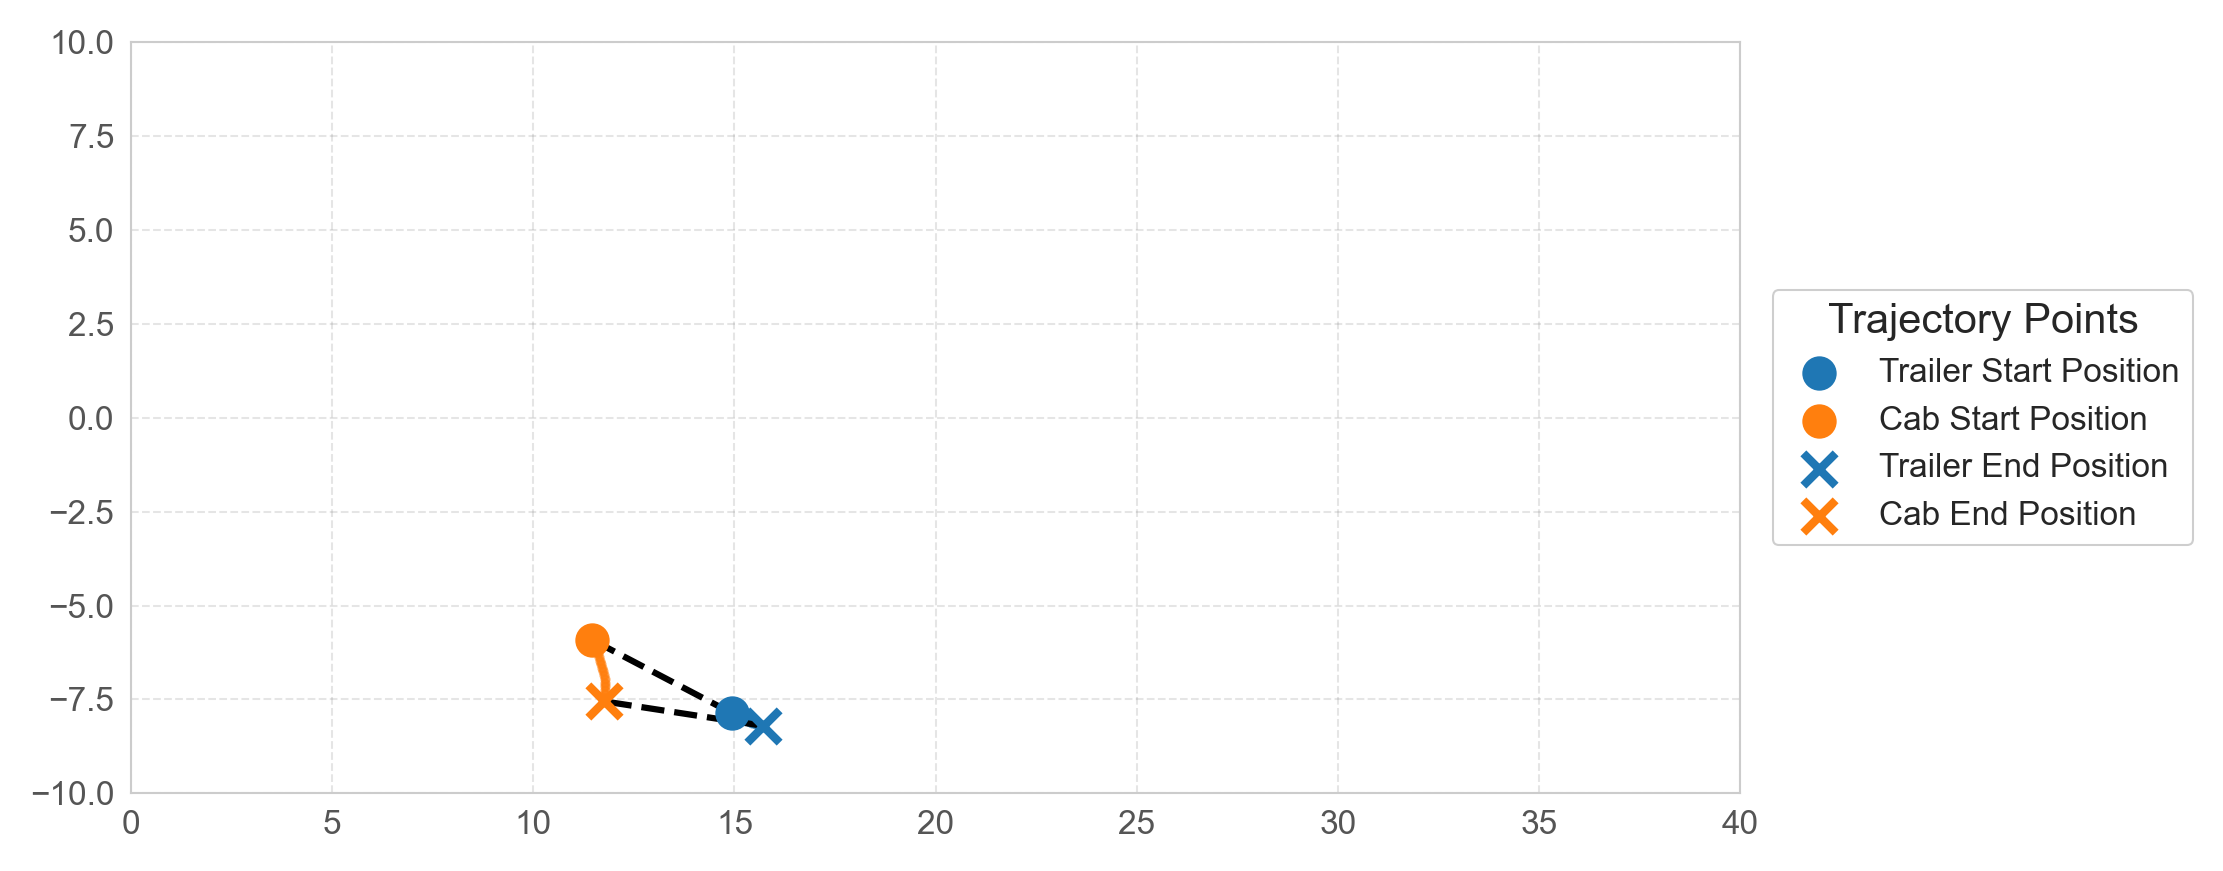
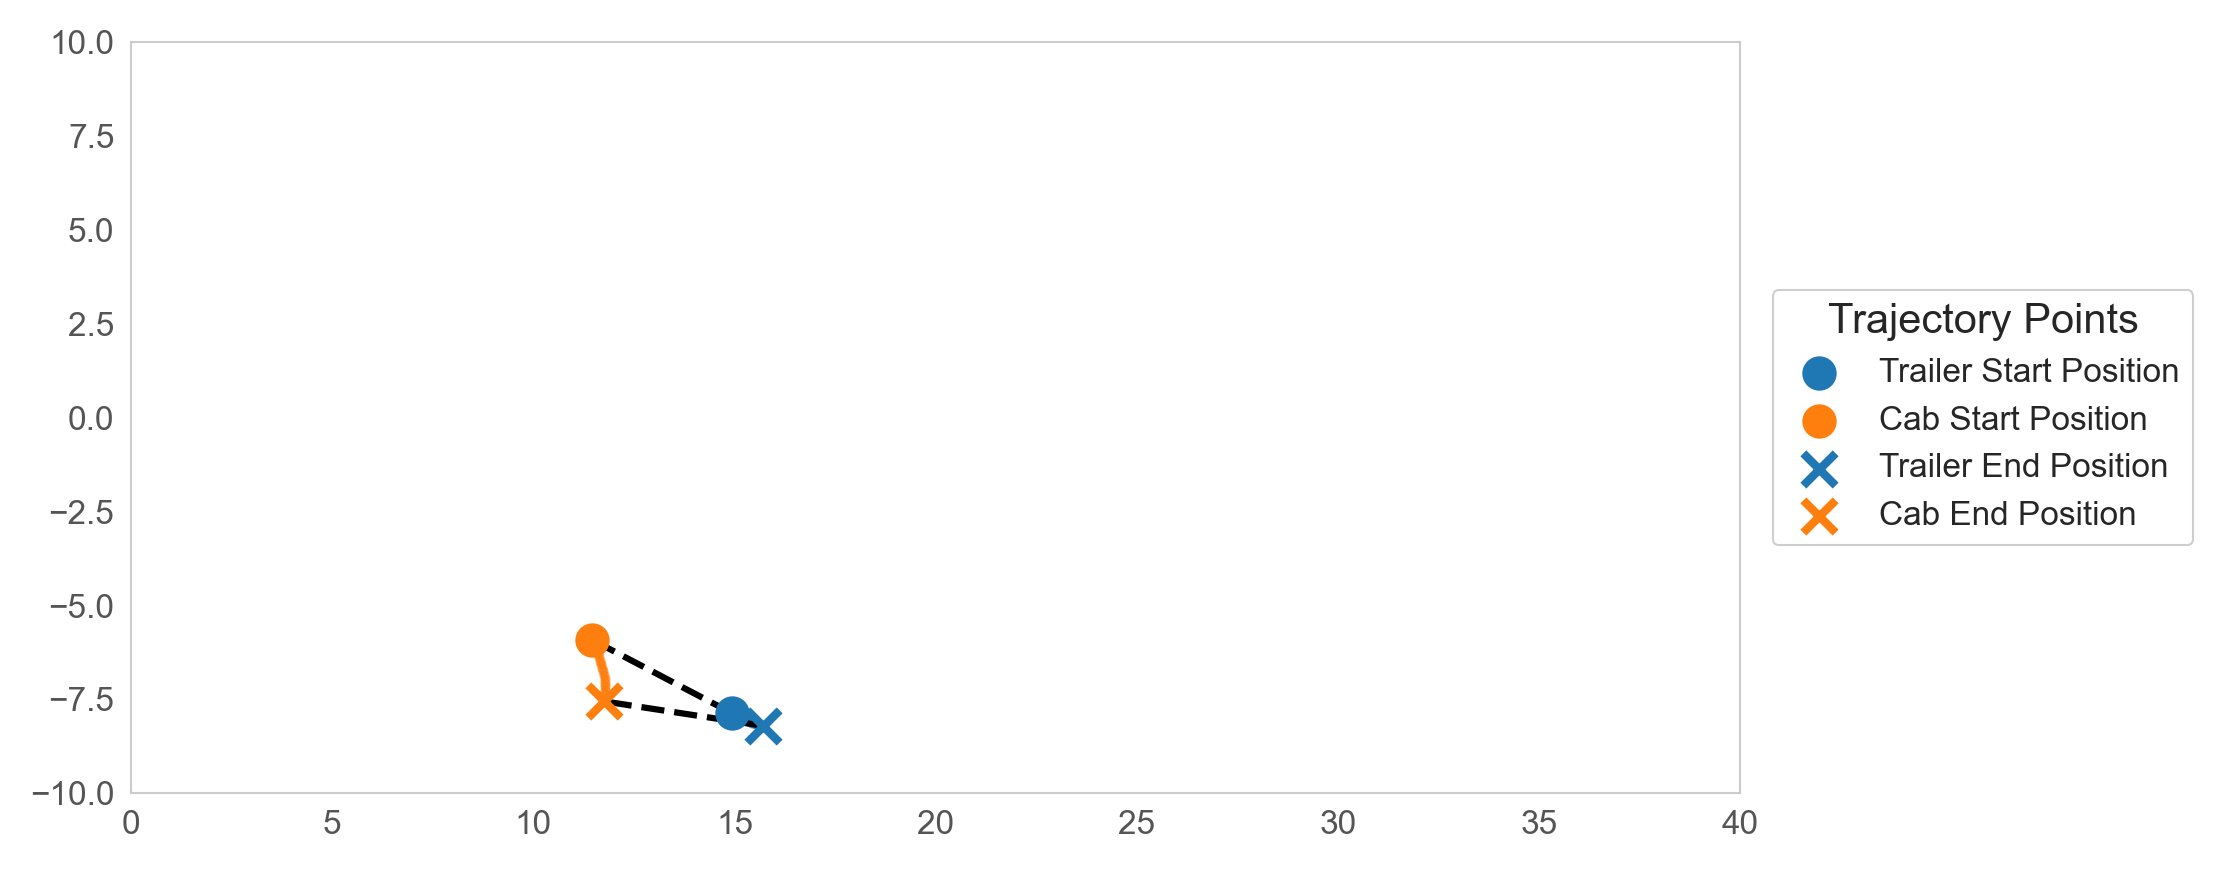
args added to python file

diff --git a/truck-backer-upper.py b/truck-backer-upper.py
@@ -1,10 +1,8 @@
 from matplotlib.pylab import *
 from matplotlib.patches import Rectangle
-from matplotlib.collections import PatchCollection
 from matplotlib.lines import Line2D
 import torch
 import torch.nn as nn
-from torch.optim import SGD
 from torchviz import make_dot
 from tqdm import tqdm
 from datetime import datetime
@@ -14,9 +12,53 @@ import scipy.stats as stats
 import matplotlib.style as style
 import os
 import shutil
+import argparse
 
-num_lessons = 10
-train_eval = "eval"
+parser = argparse.ArgumentParser(description="A training/testing script of Truck Backer Upper")
+
+parser.add_argument("--train_eval", type=str, default = "eval", required=False, help="Choose if you want to train a model from scratch or evaluate the existing models.")
+
+parser.add_argument("--final_cab_angle_range", type=int, nargs=2, default = (-120, 120), required=False, help="")
+
+parser.add_argument("--final_cab_trailer_angle_diff_range", type=int, nargs=2, default = (-45, 45), required=False, help="")
+
+parser.add_argument("--final_x_cab_range", type=int, nargs=2, default = (10, 35), required=False, help="")
+
+parser.add_argument("--final_y_cab_range", type=int, nargs=2, default = (-7, 7), required=False, help="")
+
+parser.add_argument("--env_x_range", type=int, nargs=2, default = (0, 40), required=False, help="")
+
+parser.add_argument("--env_y_range", type=int, nargs=2, default = (-10, 10), required=False, help="")
+
+parser.add_argument("--draw_trajectory", type=bool, default = True, required=False, help="")
+
+parser.add_argument("--num_lessons", type=int, default = 10, required=False, help="")
+
+parser.add_argument("--truck_speed", type=float, default = -0.1, required=False, help="")
+
+parser.add_argument("--wandb_log", type=bool, default = False, required=False, help="")
+
+parser.add_argument("--wandb_username", type=str, default = "", required=False, help="")
+
+parser.add_argument("--save_computational_graph", type=bool, default = False, required=False, help="")
+
+args = parser.parse_args()
+
+train_eval = args.train_eval
+num_lessons = args.num_lessons
+final_cab_angle_range = args.final_cab_angle_range
+final_cab_trailer_angle_diff_range = args.final_cab_trailer_angle_diff_range
+final_x_cab_range = args.final_x_cab_range
+final_y_cab_range = args.final_y_cab_range
+env_x_range = args.env_x_range
+env_y_range = args.env_y_range
+draw_trajectory = args.draw_trajectory
+num_lessons = args.num_lessons
+truck_speed = args.truck_speed
+wandb_log = args.wandb_log
+wandb_username = args.wandb_username
+save_computational_graph = args.save_computational_graph
+
 current_time = datetime.now().strftime("%Y-%m-%d_%I-%M%p")
 π = pi
 style.use(['dark_background', 'bmh'])
@@ -25,29 +67,33 @@ def create_lesson_configs(num_lessons):
     configs = {}
 
     first_lesson = {"θ0_range": (-10, 10),
-                    "Δθ1_range": (-10, 10),
+                    "Δθ_range": (-10, 10),
                     "x_range": (10, 10),
                     "y_range": (-2, 2)}
     
-    final_lesson = {"θ0_range": (-120, 120),
-                    "Δθ1_range": (-45, 45),
-                    "x_range": (10, 35),
-                    "y_range": (-7, 7)}
+    final_lesson = {"θ0_range": final_cab_angle_range,
+                    "Δθ_range": final_cab_trailer_angle_diff_range,
+                    "x_range": final_x_cab_range,
+                    "y_range": final_y_cab_range}
 
     x_min = first_lesson["x_range"][0]
 
     for i in range(1, num_lessons + 1):
 
-        θ0_max = first_lesson["θ0_range"][1] + (final_lesson["θ0_range"][1] - first_lesson["θ0_range"][1]) * (i - 1) // (num_lessons - 1)
+        θ0_max = first_lesson["θ0_range"][1] + (final_lesson["θ0_range"][1] - 
+                                                first_lesson["θ0_range"][1]) * (i - 1) // (num_lessons - 1)
         
-        Δθ1_max = first_lesson["Δθ1_range"][1] + (final_lesson["Δθ1_range"][1] - first_lesson["Δθ1_range"][1]) * (i - 1) // (num_lessons - 1)
+        Δθ1_max = first_lesson["Δθ_range"][1] + (final_lesson["Δθ_range"][1] - 
+                                                  first_lesson["Δθ_range"][1]) * (i - 1) // (num_lessons - 1)
         
-        x_max = first_lesson["x_range"][1] + (final_lesson["x_range"][1] - first_lesson["x_range"][1]) * (i - 1) // (num_lessons - 1)
+        x_max = first_lesson["x_range"][1] + (final_lesson["x_range"][1] - 
+                                              first_lesson["x_range"][1]) * (i - 1) // (num_lessons - 1)
         
-        y_max = first_lesson["y_range"][1] + (final_lesson["y_range"][1] - first_lesson["y_range"][1]) * (i - 1) // (num_lessons - 1)
+        y_max = first_lesson["y_range"][1] + (final_lesson["y_range"][1] - 
+                                              first_lesson["y_range"][1]) * (i - 1) // (num_lessons - 1)
 
         configs[i] = {"θ0_range": (-θ0_max, θ0_max),
-                      "Δθ1_range": (-Δθ1_max, Δθ1_max),
+                      "Δθ_range": (-Δθ1_max, Δθ1_max),
                       "x_range": (x_min, x_max),
                       "y_range": (-y_max, y_max)}
         x_min = x_max
@@ -63,11 +109,11 @@ class Truck:
         self.W = 1 
         self.L = 1 * self.W 
         self.d = 4 * self.L 
-        self.s = -0.1
+        self.s = truck_speed
         self.display = display
         self.lesson = lesson
         
-        self.box = [0, 40, -10, 10]
+        self.box = [0, env_x_range[1], env_y_range[0], env_y_range[1]]
         if self.display:
             self.f = figure(figsize=(6, 3), num='The Truck Backer-Upper', facecolor='none')
             self.ax = self.f.add_axes([0.01, 0.01, 0.98, 0.98], facecolor='black')
@@ -85,7 +131,6 @@ class Truck:
         self.trailer_trajectory = []
         self.cab_trajectory = []
         
-            
     def reset(self, ϕ=0, train_test = "train", test_seed = 1):
         self.trailer_trajectory.clear()
         self.cab_trajectory.clear()
@@ -98,13 +143,13 @@ class Truck:
 
         if train_test == "train":
             self.θ0 = deg2rad(uniform(*config["θ0_range"]))
-            self.θ1 = deg2rad(uniform(*config["Δθ1_range"])) + self.θ0
+            self.θ1 = deg2rad(uniform(*config["Δθ_range"])) + self.θ0
             self.x = uniform(*config["x_range"])
             self.y = uniform(*config["y_range"])
         elif train_test == "test": 
             seed(test_seed)
             self.θ0 = deg2rad(uniform(*config["θ0_range"]))
-            self.θ1 = deg2rad(uniform(*config["Δθ1_range"])) + self.θ0
+            self.θ1 = deg2rad(uniform(*config["Δθ_range"])) + self.θ0
             self.x = uniform(*config["x_range"])
             self.y = uniform(*config["y_range"])            
                     
@@ -295,14 +340,18 @@ class Truck:
                 'k--', linewidth=1.5)
         
         
+        # plt.gca().add_patch(Rectangle((0, -10), 40, 20, linewidth=2, edgecolor='gray', facecolor='none'))
+        # plt.gca().add_patch(Rectangle((0, self.box[2]), self.box[1], abs(self.box[2]) + abs(self.box[3]), linewidth=2, edgecolor='green', facecolor='none'))
+
+                        
         plt.xlim(self.box[0], self.box[1])
         plt.ylim(self.box[2], self.box[3])
-        plt.grid(True, linestyle='--', alpha=0.2, color='gray')
+        plt.grid(False)
         
-        legend = plt.legend(loc='center left', bbox_to_anchor=(1.01, 0.5),
-                           frameon=True, framealpha=0.95, 
-                           fancybox=True, shadow=False, fontsize=8, 
-                           title='Trajectory Points')
+        plt.legend(loc='center left', bbox_to_anchor=(1.01, 0.5),
+                   frameon=True, framealpha=0.95, 
+                   fancybox=True, shadow=False, fontsize=8, 
+                   title='Trajectory Points')
         
         for spine in plt.gca().spines.values():
             spine.set_linewidth(0.5)
@@ -321,8 +370,6 @@ class Truck:
         fig = plt.gcf() 
         fig.patch.set_facecolor('white')      
         plt.savefig(f'{directory}/trajectory-{test_seed}.png', dpi=300, facecolor='white', bbox_inches='tight')      
-        
-        plt.show(block=False)  
         
     def update_state(self, state): 
         self.ϕ, self.x, self.y, self.θ0, self.θ1 = state.tolist()
@@ -367,7 +414,6 @@ def criterion_controller(ϕ_state):
     y_tr = y - 4 * torch.sin(θ1)
     angle_diff = torch.abs(θ1 - θ0)
     angle_diff_relu = nn.functional.relu((angle_diff - deg2rad(30))/deg2rad(30))
-    print(x_tr)
     x_tr_relu = nn.functional.relu(x_tr)
     min_θ1 = torch.min(torch.abs(θ1), torch.abs(torch.abs(θ1) - deg2rad(360)))
     return (x_tr_relu**2 + y_tr**2 + min_θ1**2 + angle_diff_relu**2) / 4
@@ -376,7 +422,7 @@ def train_emulator(emulator,
                    episodes, 
                    learning_rate, 
                    lesson, 
-                   wandb_log = False):
+                   wandb_log = wandb_log):
     
     if wandb_log:
         wandb.init(project='emulator-training', save_code = True, name=f'lesson_{lesson}_run_{current_time}')
@@ -460,8 +506,8 @@ def train_controller(lesson,
                      controller, 
                      epochs, 
                      max_steps,
-                     wandb_log = False,
-                     save_computational_graph = False,
+                     wandb_log = wandb_log,
+                     save_computational_graph = save_computational_graph,
                      learning_rate = 0.001):
       
     if wandb_log: 
@@ -542,17 +588,18 @@ if train_eval == "train":
     for lesson in range(1, num_lessons + 2): 
         print(" Lesson {}:".format(lesson))
         controller = train_controller(lesson = lesson, 
-                                    controller = controller,
-                                    epochs = 3000,
-                                    max_steps = 400)
+                                      controller = controller,
+                                      epochs = 3000,
+                                      max_steps = 400)
         print()
 
-final_lesson = 11
+final_lesson = num_lessons + 1
+
 test_controller = torch.load('models/controllers/controller_lesson_{}.pth'.format(final_lesson), weights_only = False)
 truck = Truck(lesson = final_lesson, display = True)
 
 num_jackknifes = 0
-for test_seed in range(1,10):
+for test_seed in range(1,11):
     with torch.no_grad():
         truck.reset(train_test = "test", test_seed = test_seed)    
         i = 0
@@ -563,7 +610,8 @@ for test_seed in range(1,10):
             truck.step(ϕ.item()) 
             truck.draw()
             i += 1
-        truck._draw_trajectory(test_seed)
+        if draw_trajectory:
+            truck._draw_trajectory(test_seed)
         x, y, θ0, trailer_x, trailer_y, θ1 = truck.state()  
         num_jackknifes += truck.is_jackknifed()
         print(f"Number of Steps: {i}")
